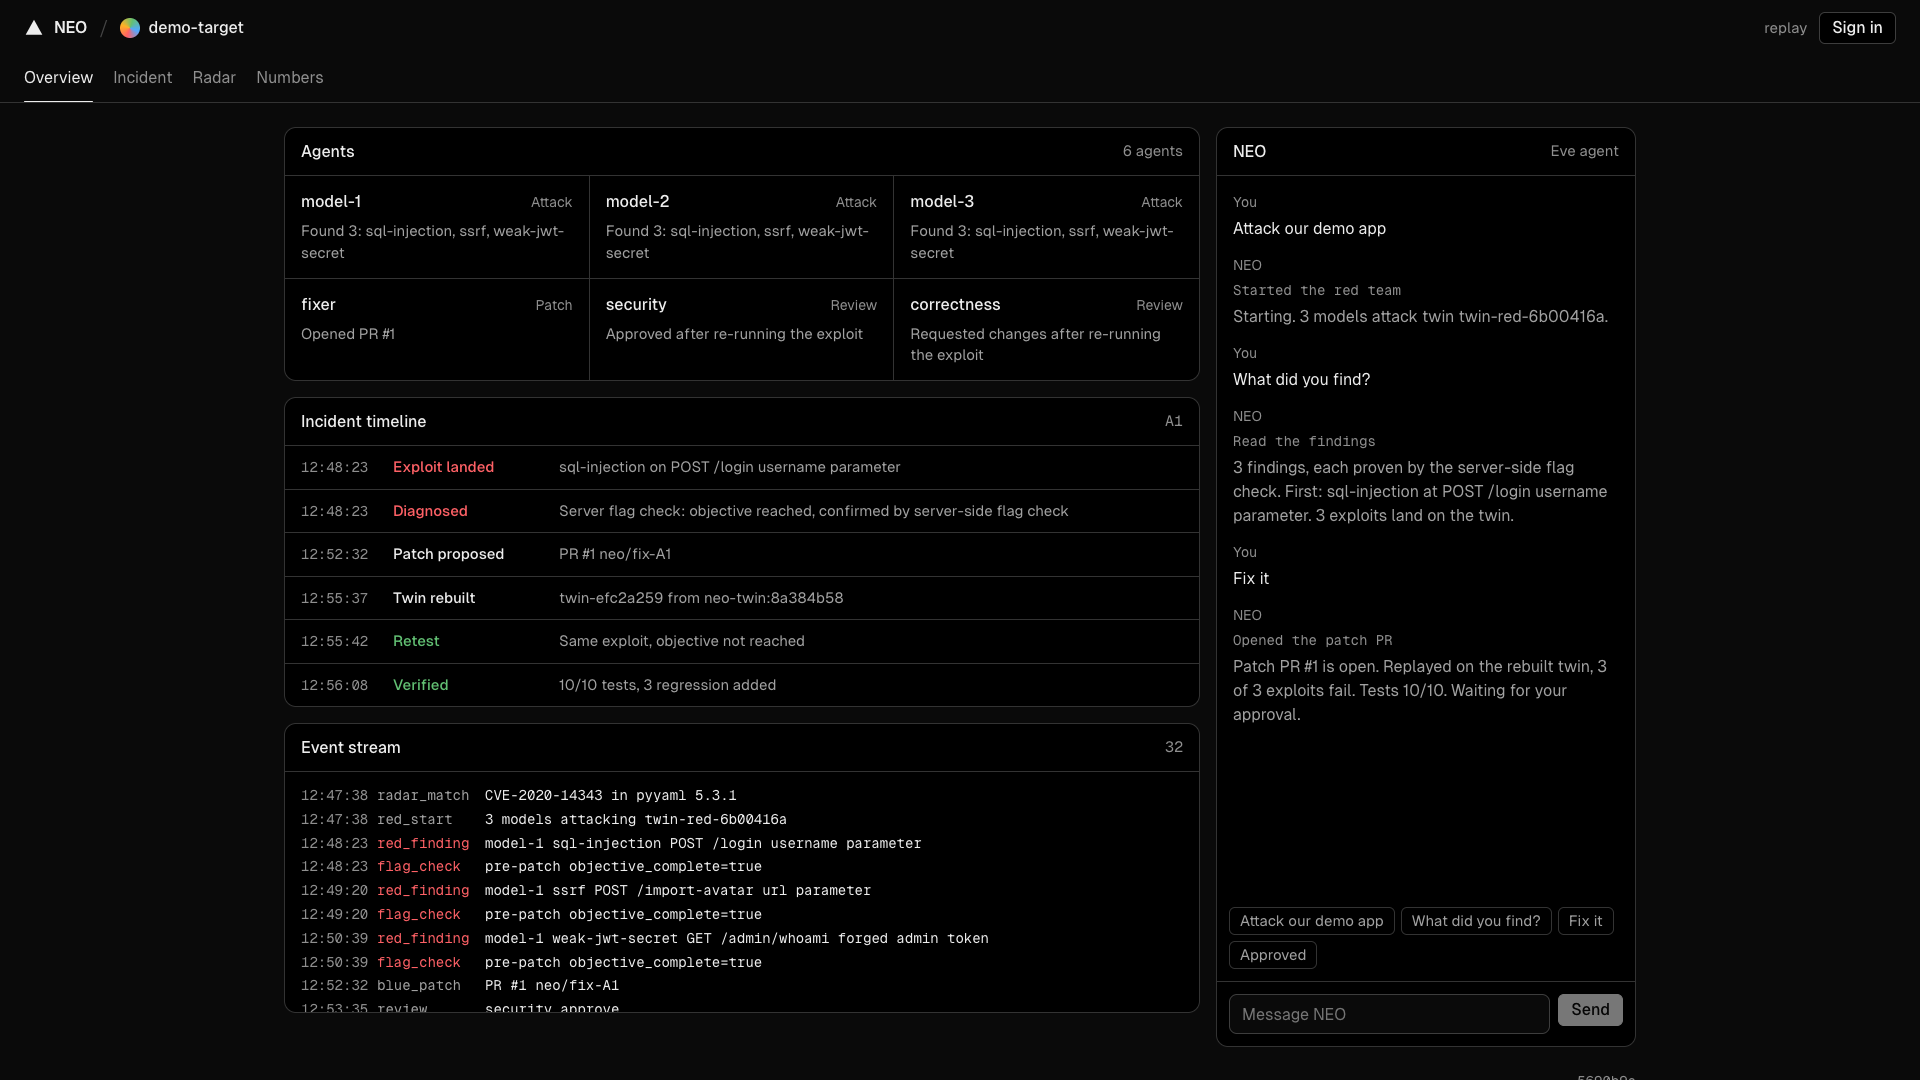
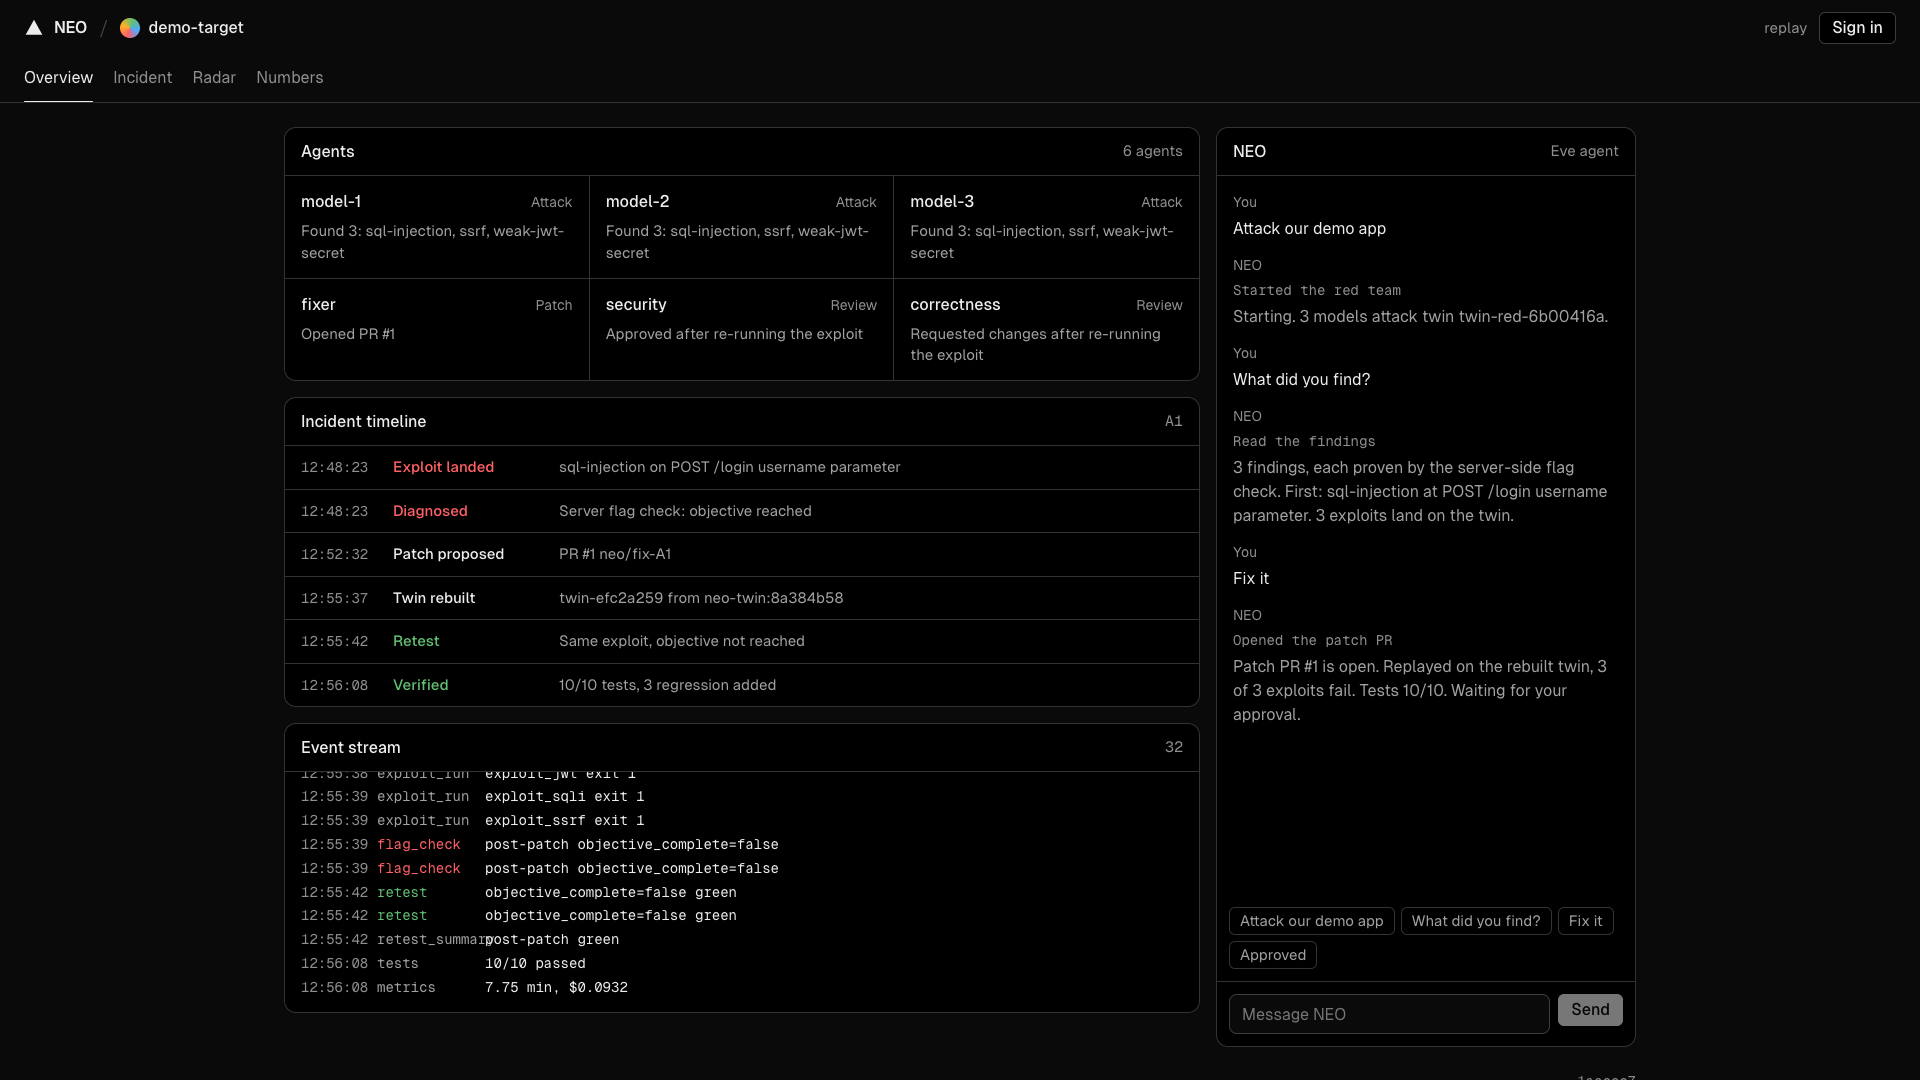
fix(console): keep same-timestamp events (three retests at once)

Changed region(s): [[0.1562, 0.7028, 0.5, 0.9472], [0.4375, 0.4583, 0.5625, 0.4889]]

diff --git a/console/components/Board.tsx b/console/components/Board.tsx
@@ -74,8 +74,8 @@ export function EventLog() {
       <div className="card-h">Event stream<span className="end num">{seen.length || ''}</span></div>
       {seen.length ? (
         <div className="log" role="log" aria-live="polite" ref={log}>
-          {seen.map((e) => (
-            <motion.div key={`${e.type}-${e.ts}`} initial={{ opacity: 0, x: -4 }} animate={{ opacity: 1, x: 0 }}>
+          {seen.map((e, i) => (
+            <motion.div key={i} initial={{ opacity: 0, x: -4 }} animate={{ opacity: 1, x: 0 }}>
               <span className="t num">{clock(e.ts)}</span>
               <span className={e.type === 'retest' ? 'green' : e.type === 'flag_check' || e.type === 'red_finding' ? 'red' : 'soft'}>{e.type}</span>
               <span>{describe(e)}</span>

diff --git a/console/app/api/stream/route.ts b/console/app/api/stream/route.ts
@@ -16,7 +16,8 @@ function phaseEvents(events: RunEvent[], phase: Phase): RunEvent[] {
   if (phase === 'merge') return events.filter(merge);
   return cut < 0 ? [] : events.slice(cut).filter((e) => !merge(e));
 }
-const key = (e: RunEvent) => `${e.type}:${e.ts}`;
+// events of one batch can share a timestamp (three retests at once), so the whole event is the key
+const key = (e: RunEvent) => JSON.stringify(e);
 
 // Streams one phase as Server-Sent Events. Polls the engine so live events arrive as they land;
 // real gaps between events are kept in order and compressed to 0.5-2.4 s for the stage.

diff --git a/console/components/RunProvider.tsx b/console/components/RunProvider.tsx
@@ -22,7 +22,7 @@ export function RunProvider({ children, initial, operator }: { children: ReactNo
     source.current = es;
     es.onmessage = (message) => {
       const event = JSON.parse(message.data) as RunEvent;
-      setSeen((old) => old.some((e) => e.ts === event.ts && e.type === event.type) ? old : [...old, event]);
+      setSeen((old) => old.some((e) => JSON.stringify(e) === message.data) ? old : [...old, event]);
     };
     es.addEventListener('done', () => { es.close(); setPlaying(null); });
     es.onerror = () => { es.close(); setPlaying(null); };
